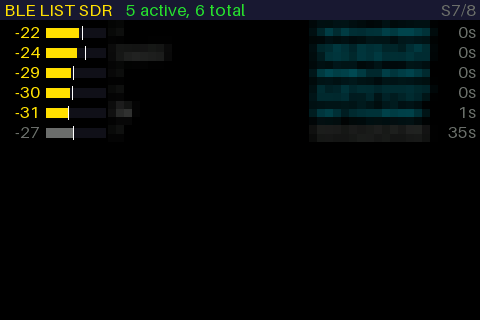
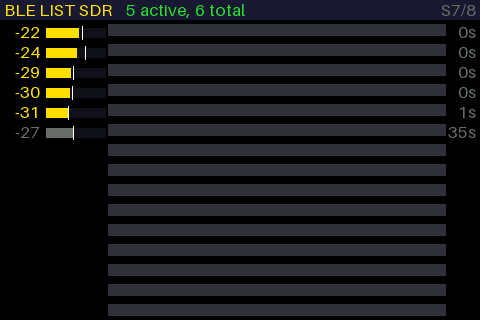
Gallery: names and addresses blacked out as uniform bars; T-Display gallery

diff --git a/tools/serial_tests.py b/tools/serial_tests.py
@@ -290,7 +290,7 @@ def do_gif(b, a):
     print(f'{a.out}: {len(frames)} frames, {len(frames) / (times[-1] - times[0]):.1f} frames/s')
 
 
-# README pages: file, commands, seconds to settle, boxes to pixelate
+# README pages: file, commands, seconds to settle, boxes to black out
 # (x0, y0, x1, y1, in JC3248 pixels, 480x320; scaled to the T-Display's
 # 240x135, whose layout is the same at half size) where network names and
 # addresses are shown.
@@ -307,16 +307,22 @@ README_PAGES = [
 ]
 
 
-def pixelate(img, box, block=8):
+def redact(img, box, line):
+    """Each text line inside box becomes the same flat grey bar over the full
+    width: nothing of the names or addresses is left, not even their
+    length."""
+    import numpy as np
     from PIL import Image
+    a = np.asarray(img).copy()
     x0, y0, x1, y1 = box
-    part = img.crop(box)
-    small = part.resize((max(1, (x1 - x0) // block), max(1, (y1 - y0) // block)), Image.BILINEAR)
-    img.paste(small.resize(part.size, Image.NEAREST), box)
+    a[y0:y1, x0:x1] = 0
+    for y in range(y0, y1, line):  # one bar per line, all the same colour
+        a[y + line // 5:min(y + line - line // 5, y1), x0:x1] = (48, 48, 56)
+    img.paste(Image.fromarray(a))
 
 
 def do_readme(b, a):
-    """Screenshots of the README pages with names and addresses pixelated,
+    """Screenshots of the README pages with names and addresses blacked out,
     for `tools/readme_images.py --shots DIR`. Check them before committing."""
     os.makedirs(a.dir, exist_ok=True)
     for name, cmds, wait, boxes in README_PAGES:
@@ -334,7 +340,7 @@ def do_readme(b, a):
         k = img.width / 480
         for box in boxes:
             x0, y0, x1, y1 = (int(round(v * k)) for v in box)
-            pixelate(img, (x0, y0, x1, min(y1, img.height)), block=max(4, int(8 * k)))
+            redact(img, (x0, y0, x1, min(y1, img.height)), int(round(20 * k)))
         img.save(os.path.join(a.dir, name))
         print(f'{name}: ok')
 
@@ -371,7 +377,7 @@ def main():
     p.add_argument('out')
     p.add_argument('--cmd', action='append', default=[], help='command to send first (repeatable)')
     p.add_argument('--wait', type=float, default=0, help='seconds to wait before the screenshot')
-    p = sub.add_parser('readme', help='README page screenshots, names and addresses pixelated')
+    p = sub.add_parser('readme', help='README page screenshots, names and addresses blacked out')
     p.add_argument('dir')
     p.add_argument('--only', nargs='*', help='only these files (page-networks.png ...)')
     p = sub.add_parser('gif', help='screenshots back to back as an animated GIF')

diff --git a/README.md b/README.md
@@ -108,7 +108,7 @@ speed test therefore does not overload the picture.
 ## On the device
 
 Screenshots from a JC3248, taken over the serial port with `TDSCREEN`.
-Network names and device addresses are pixelated. The numbered pictures in
+Network names and device addresses are blacked out. The numbered pictures in
 the sections below are drawings with example data, so that each part can be
 pointed at.
 
@@ -120,6 +120,17 @@ pointed at.
 | CHANNELS ZIGBEE | LEVEL WIFI SINGLE | DETECTOR PEAKS (not zeroed) |
 | <img src="images/device/focus.png" alt="FOCUS WIFI"> | <img src="images/device/ble-list-sdr.png" alt="BLE LIST SDR"> | <img src="images/device/ble-list.png" alt="BLE LIST"> |
 | FOCUS WIFI | BLE LIST SDR | BLE LIST |
+
+The same pages on the T-Display (240×135):
+
+| | | |
+|---|---|---|
+| <img src="images/device-tdisplay/waterfall.png" alt="WATERFALL FULL"> | <img src="images/device-tdisplay/networks.png" alt="NETWORKS"> | <img src="images/device-tdisplay/channels.png" alt="CHANNELS WIFI"> |
+| WATERFALL FULL | NETWORKS | CHANNELS WIFI |
+| <img src="images/device-tdisplay/zigbee.png" alt="CHANNELS ZIGBEE"> | <img src="images/device-tdisplay/coverage.png" alt="LEVEL WIFI SINGLE"> | <img src="images/device-tdisplay/detector.png" alt="DETECTOR PEAKS"> |
+| CHANNELS ZIGBEE | LEVEL WIFI SINGLE | DETECTOR PEAKS (not zeroed) |
+| <img src="images/device-tdisplay/focus.png" alt="FOCUS WIFI"> | <img src="images/device-tdisplay/ble-list-sdr.png" alt="BLE LIST SDR"> | |
+| FOCUS WIFI | BLE LIST SDR | |
 
 ---
 
